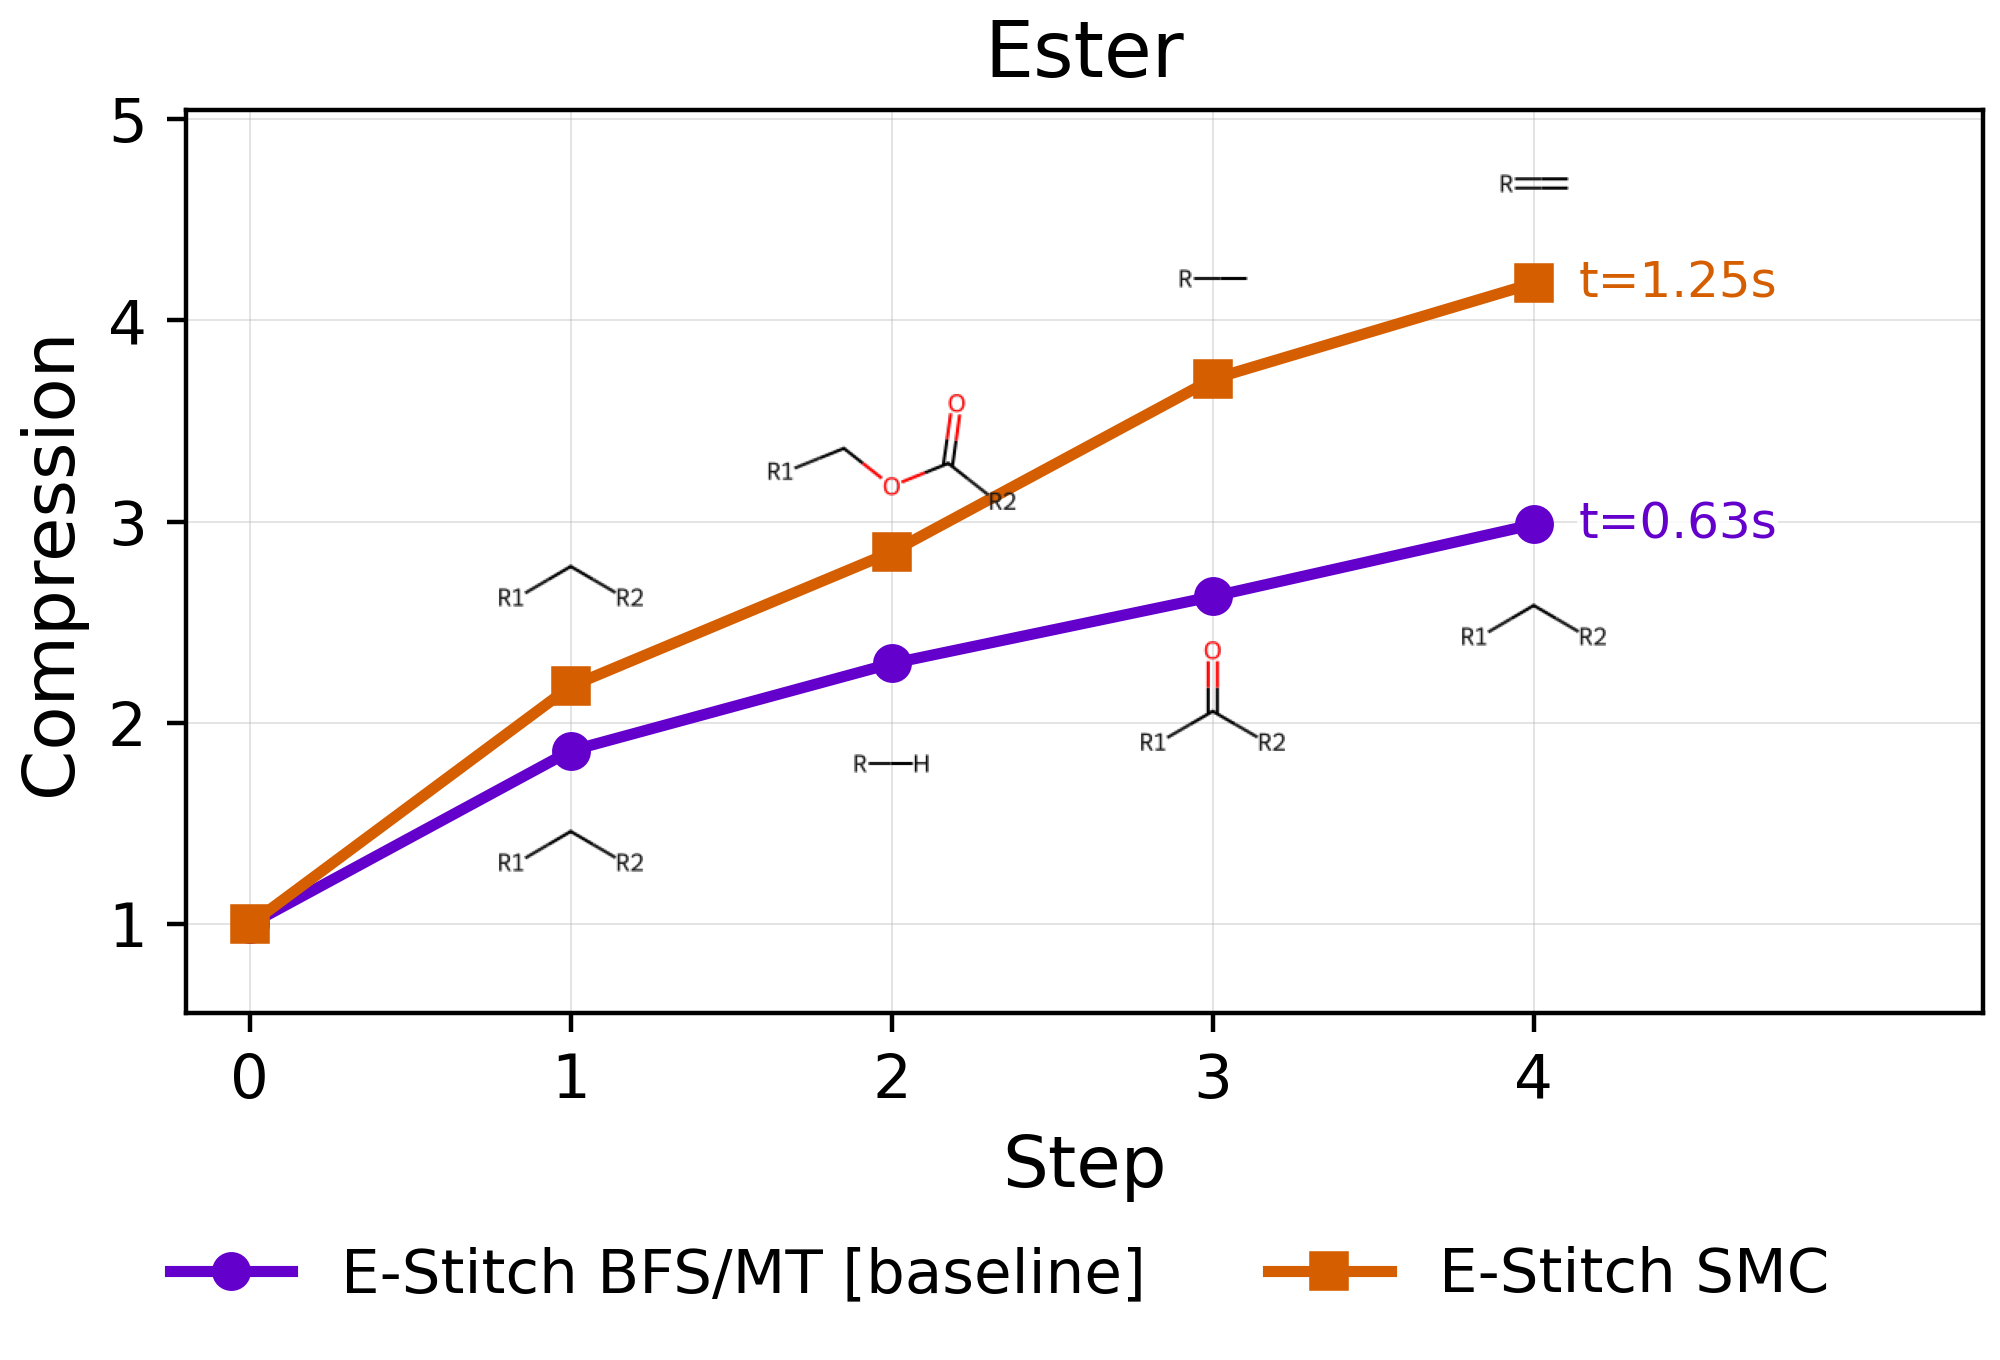
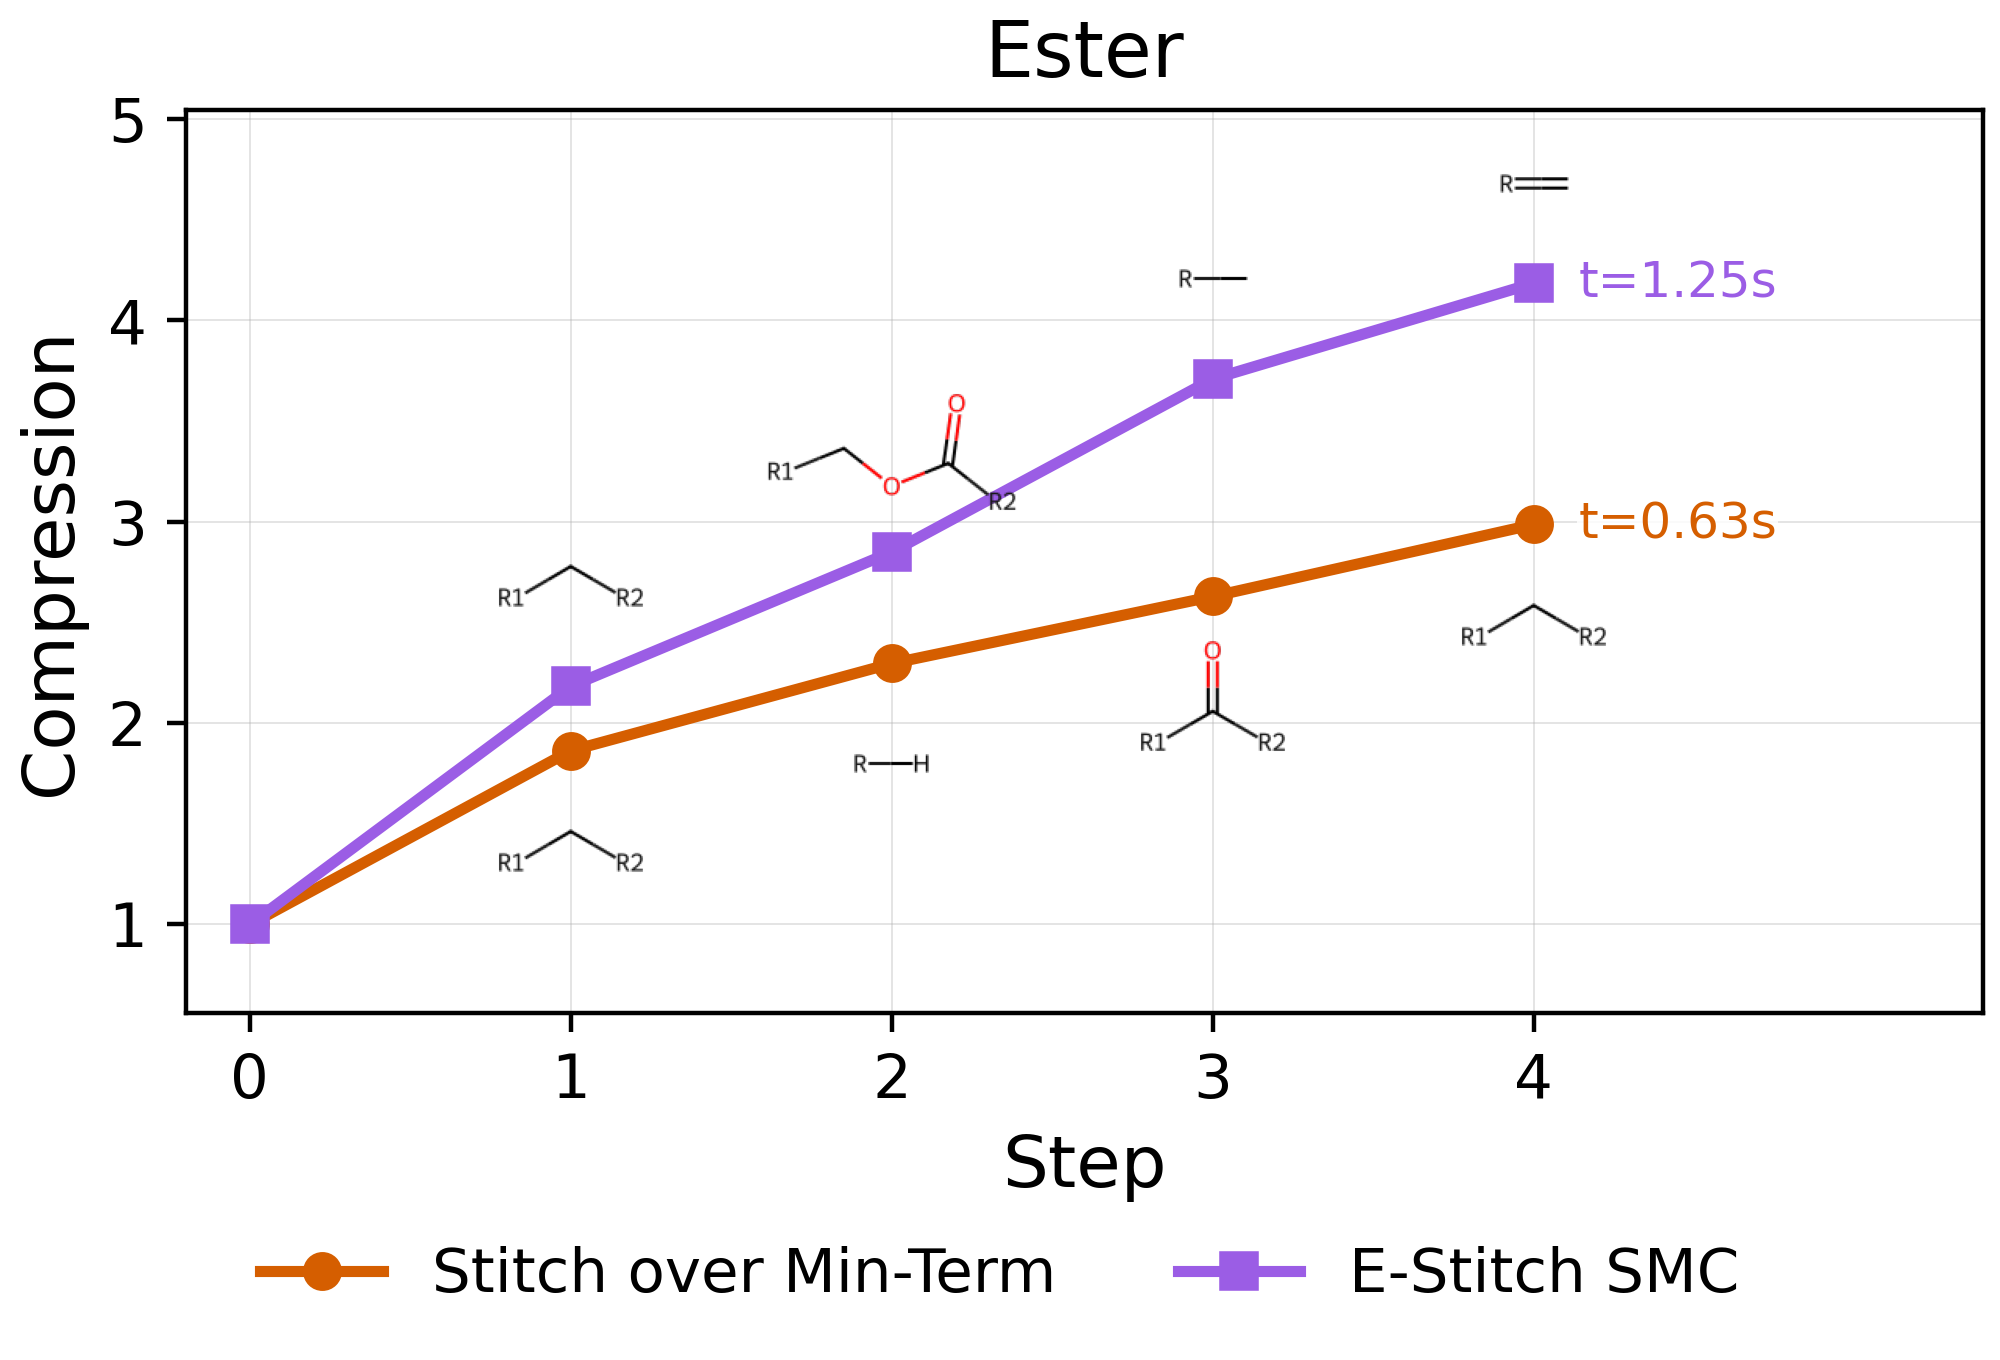
Color and name the per-family molecule progress plots to match the slides

diff --git a/scripts/render_molecules.py b/scripts/render_molecules.py
@@ -55,6 +55,16 @@ METHOD_COMMON_NAME = {
     "DSR-canon": "E-Stitch BFS/MT [baseline]",
     "search-DSR": "E-Stitch SMC",
 }
+# The per-family figures are for slides, whose results bar chart uses these
+# colors and names.
+SLIDE_METHOD_COLORS = {
+    "DSR-canon": "#D55E00",
+    "search-DSR": "#9B5DE5",
+}
+SLIDE_METHOD_NAME = {
+    "DSR-canon": "Stitch over Min-Term",
+    "search-DSR": "E-Stitch SMC",
+}
 
 # Font sizes (points) for the combined 2x2 figure. Kept deliberately large
 # relative to the shrunken per-panel size so that, once the whole grid is
@@ -386,7 +396,13 @@ def annotate_series(
     )
 
 
-def plot_domain(ax, saved: dict, domain: str, max_step: int) -> tuple[list, list]:
+def family_name(domain: str) -> str:
+    """``molecules:ester`` -> ``ester``."""
+    return domain.split(":", 1)[1] if ":" in domain else domain
+
+
+def plot_domain(ax, saved: dict, domain: str, max_step: int,
+                colors: dict[str, str], names: dict[str, str]) -> tuple[list, list]:
     """Plot one family's trajectory onto ``ax``.
 
     Returns the legend ``(handles, labels)`` for the series drawn, so that a
@@ -408,16 +424,16 @@ def plot_domain(ax, saved: dict, domain: str, max_step: int) -> tuple[list, list
         (line,) = ax.plot(
             xs,
             ys,
-            color=METHOD_COLORS[method],
+            color=colors[method],
             marker=METHOD_MARKERS[method],
             linewidth=2.0,
             markersize=6,
-            label=METHOD_COMMON_NAME[method],
+            label=names[method],
         )
         handles.append(line)
-        labels.append(METHOD_COMMON_NAME[method])
+        labels.append(names[method])
         annotate_series(
-            ax, xs, ys, point_labels, METHOD_COLORS[method], last_time,
+            ax, xs, ys, point_labels, colors[method], last_time,
             median_ys=median_ys,
         )
 
@@ -435,8 +451,7 @@ def plot_domain(ax, saved: dict, domain: str, max_step: int) -> tuple[list, list
     ax.set_ylim(lo - r * 0.08, hi + r * 0.20)
     ax.yaxis.set_major_locator(MultipleLocator(1))
 
-    family = domain.split(":", 1)[1] if ":" in domain else domain
-    ax.set_title(family.capitalize(), fontsize=TITLE_FONTSIZE)
+    ax.set_title(family_name(domain).capitalize(), fontsize=TITLE_FONTSIZE)
     return handles, labels
 
 
@@ -460,7 +475,8 @@ def render_combined(saved: dict, out_path: Path, max_step: int) -> None:
     legend_handles: list = []
     legend_labels: list = []
     for ax, domain in zip(flat, domains):
-        handles, labels = plot_domain(ax, saved, domain, max_step)
+        handles, labels = plot_domain(ax, saved, domain, max_step,
+                                      METHOD_COLORS, METHOD_COMMON_NAME)
         if len(labels) > len(legend_labels):
             legend_handles, legend_labels = handles, labels
 
@@ -486,7 +502,8 @@ def render_single(saved: dict, domain: str, out_path: Path, max_step: int) -> No
     import matplotlib.pyplot as plt
 
     fig, ax = plt.subplots(figsize=(5.0, 3.4), layout="constrained")
-    handles, labels = plot_domain(ax, saved, domain, max_step)
+    handles, labels = plot_domain(ax, saved, domain, max_step,
+                                  SLIDE_METHOD_COLORS, SLIDE_METHOD_NAME)
     fig.legend(handles, labels, loc="outside lower center", ncols=len(labels),
                frameon=False, fontsize=TICK_FONTSIZE)
     fig.savefig(out_path, dpi=400)
@@ -503,8 +520,7 @@ def render_all(saved: dict, out_dir: Path, max_step: int = DEFAULT_MAX_STEP) -> 
     for domain in MOLECULES_DOMAINS:
         if domain not in saved["domains"]:
             continue
-        family = domain.split(":", 1)[1] if ":" in domain else domain
-        out_path = out_dir / f"{family}-progress.png"
+        out_path = out_dir / f"{family_name(domain)}-progress.png"
         render_single(saved, domain, out_path, max_step)
         print(f"wrote {out_path}", file=sys.stderr)
 
